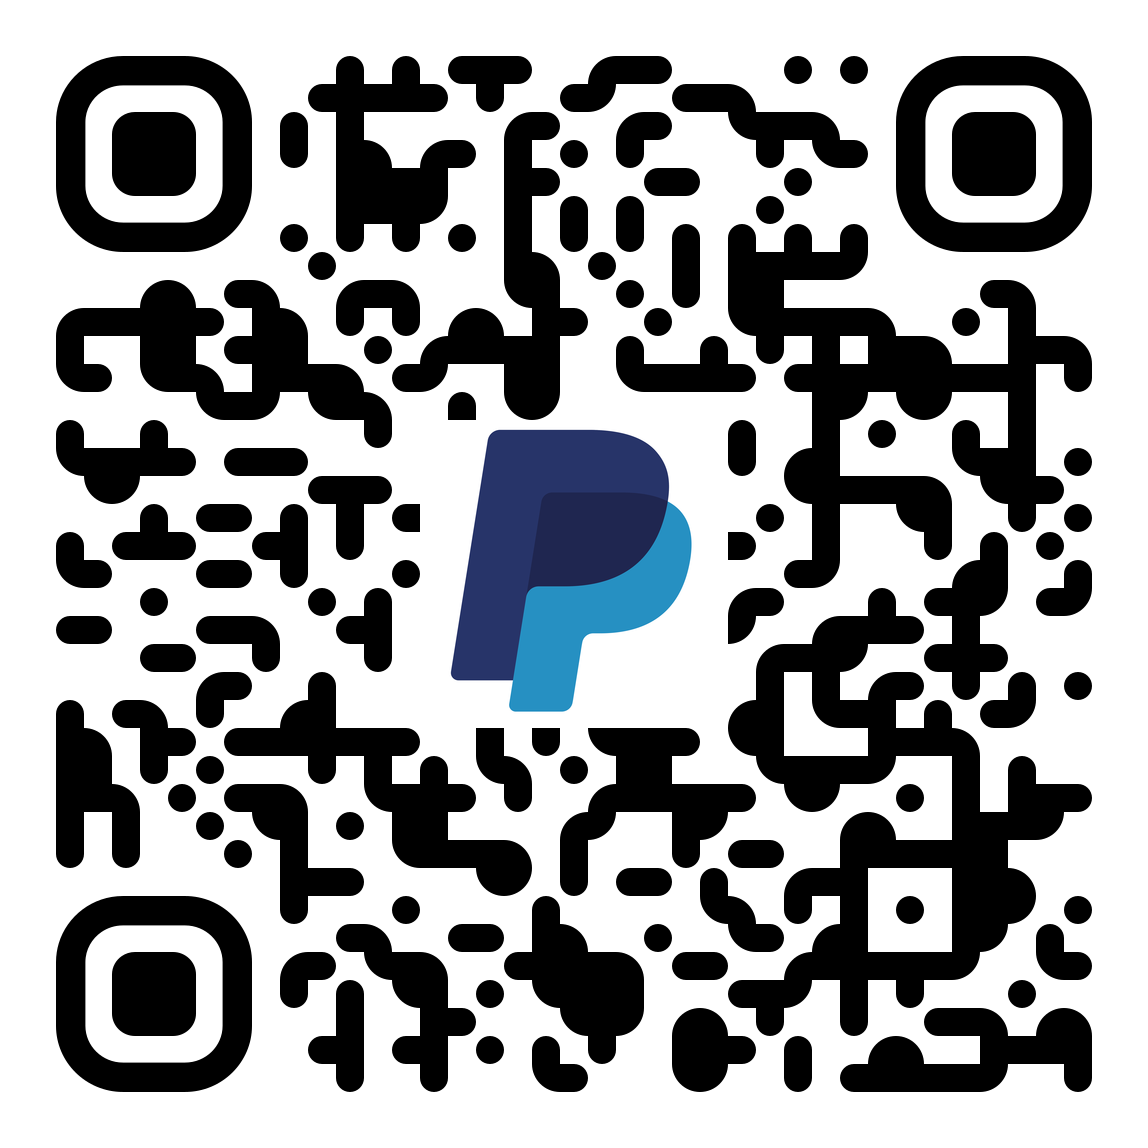
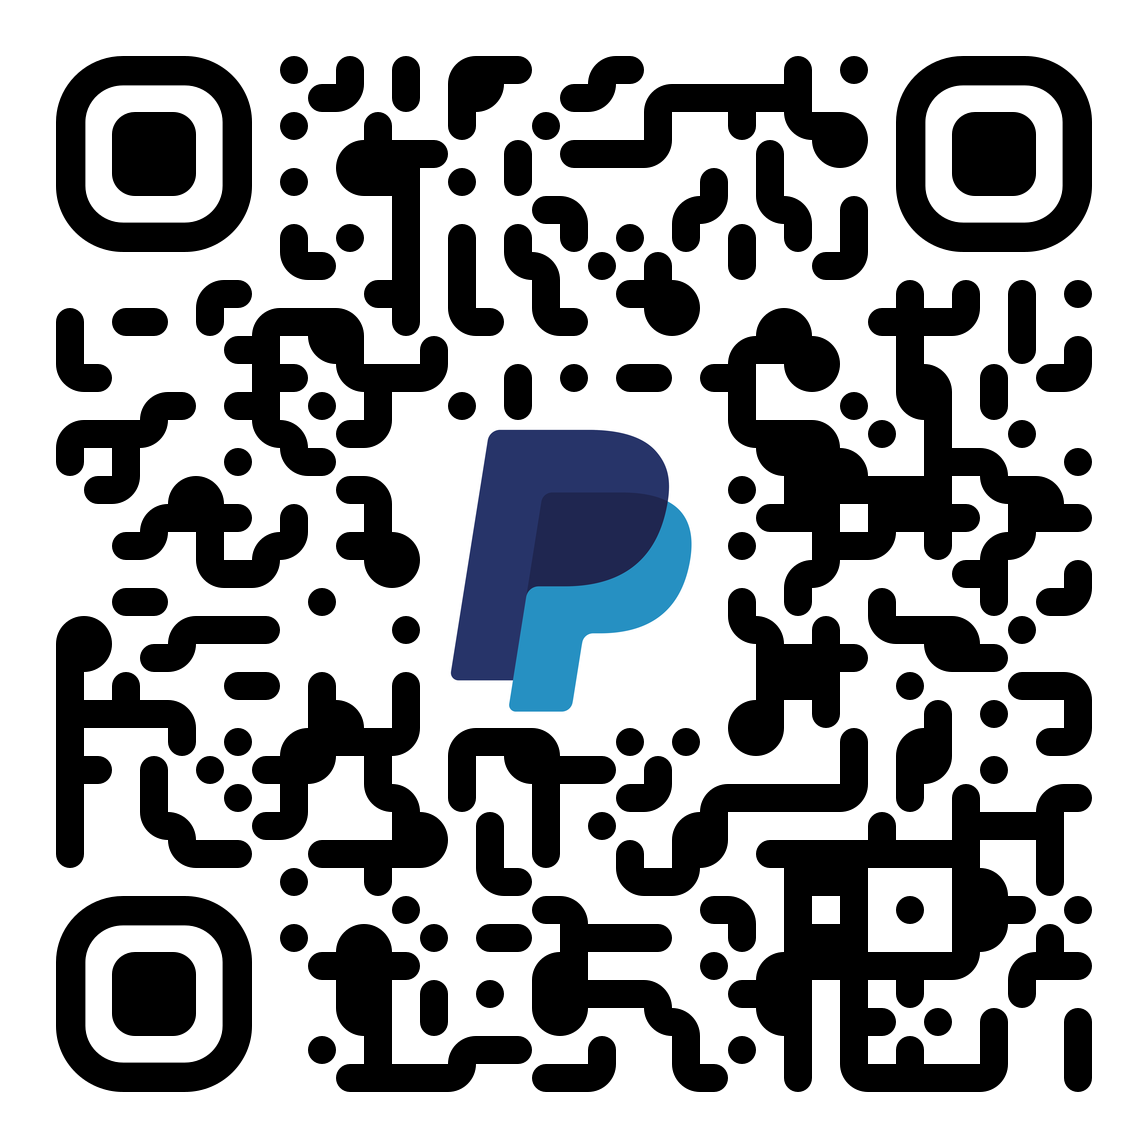
updates

diff --git a/donate.html b/donate.html
@@ -98,13 +98,13 @@ body {
         <img src="graphics/paypal.png" alt="paypal" style="width:100%">
         <div class="caption center text-center">
           <!--<p><a href="https://www.paypal.com/pools/c/8IlWi9KDAh">Paypal</a></p>-->
-          <p><a href="https://www.paypal.com/pools/c/8OcYCO29r2">www.paypal.com/pools/c/8OcYCO29r2</a></p>
+          <p><a href="https://www.paypal.com/pools/c/8PceRdREJN">www.paypal.com/pools/c/8PceRdREJN</a></p>
         </div>
     </div>
   </div>
   
   <div class="col-md-2">
-    <div style="text-align:center;"><img border="0" src="https://www.coolfundraisingideas.net/thermometer/thermometer.php?currency=dollar&goal=40000&raised=28778&color=blue&size=medium"></div>
+    <div style="text-align:center;"><img border="0" src="https://www.coolfundraisingideas.net/thermometer/thermometer.php?currency=dollar&goal=50000&raised=36873&color=blue&size=medium"></div>
   </div>
   
 </div>
